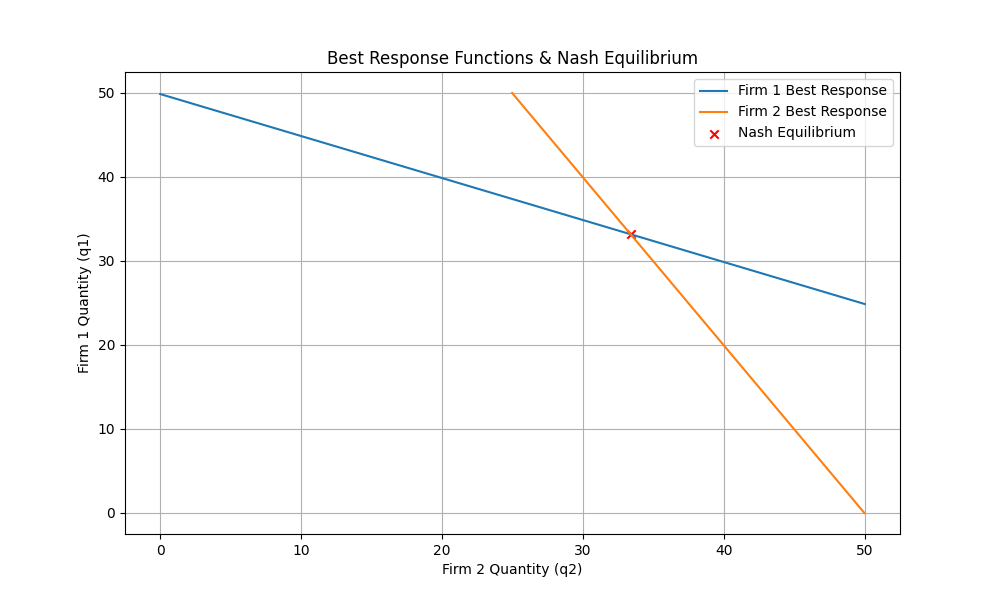
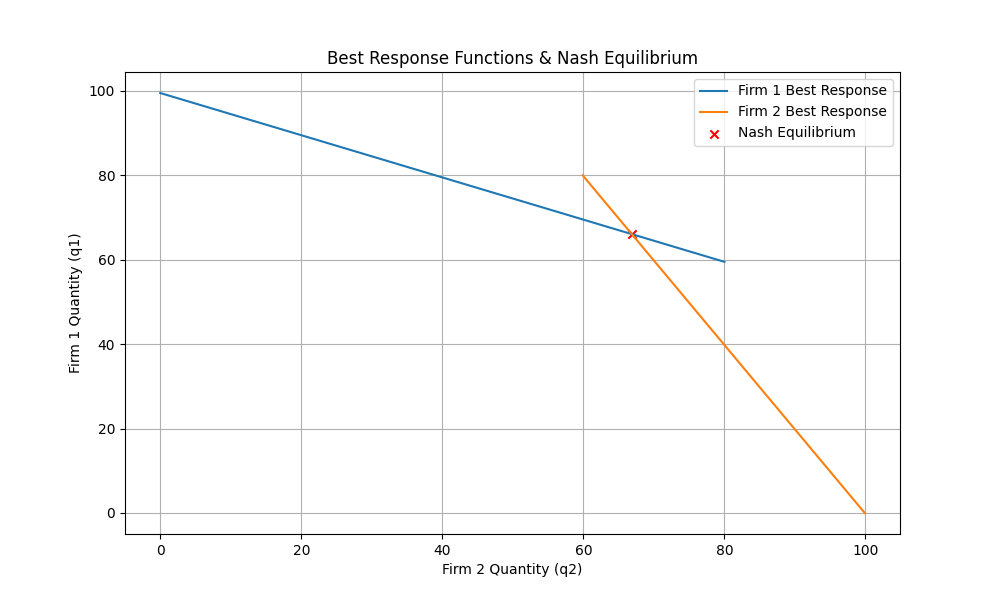
Debug

diff --git a/GameTheoryModel.py b/GameTheoryModel.py
@@ -12,22 +12,23 @@ class GameTheoryModel:
         self.bounds = bounds if bounds else [(0, 50)] * n
 
     def demand_function(self, Q):
+        """Computes price given total quantity Q"""
         return max(self.alpha - self.beta * Q, 0)
 
-
-    def cost_function(self, q, beta):
-        return beta * q
+    def cost_function(self, q, cost_param):
+        """Computes cost for a firm"""
+        return cost_param * q
 
 class CournotGame(GameTheoryModel):
     def __init__(self, **kwargs):
         super().__init__(**kwargs)
 
-    def best_response(self, q_others, beta):
-        """Best reponse for n players"""
-        return max((self.alpha - sum(q_others) - self.beta * beta) / self.n, 0)  # Generalized for n players
+    def best_response(self, q_others, cost_param):
+        """Computes the best response function (n firm)"""
+        return max((self.alpha - self.beta * sum(q_others) - cost_param) / (2 * self.beta), 0)  # Adjusted for n players
 
     def equilibrium(self, tol=1e-4):
-        """Iterative response to for nash equilibrium"""
+        """Iterative best response computation for Cournot equilibrium"""
         quantities = np.array(self.initial_guess)
         error = 1
 
@@ -44,28 +45,3 @@ class CournotGame(GameTheoryModel):
         profits = [p * quantities[i] - self.cost_function(quantities[i], self.cost_params[i]) for i in range(self.n)]
 
         return quantities, p, profits
-
-class StackelbergGame(GameTheoryModel):
-    def __init__(self, **kwargs):
-        super().__init__(**kwargs)
-    
-    def follower_best_response(self, q_leaders, beta_follower):
-        return max((self.alpha - sum(q_leaders) - self.beta * beta_follower) / (self.n - len(q_leaders) + 1), 0)
-    
-    def leader_objective(self, q_leaders):
-        q_followers = [self.follower_best_response(q_leaders, beta) for beta in self.cost_params[len(q_leaders):]]
-        Q = sum(q_leaders) + sum(q_followers)
-        p = self.demand_function(Q)
-        profit_leaders = [float(p * q_leaders[i] - self.cost_function(q_leaders[i], self.cost_params[i])) for i in range(len(q_leaders))]
-        return -sum(profit_leaders)
-    
-    def equilibrium(self):
-        result = minimize(self.leader_objective, self.initial_guess[:1], bounds=self.bounds[:1])
-        q_leaders = result.x
-        q_followers = [self.follower_best_response(q_leaders, beta) for beta in self.cost_params[len(q_leaders):]]
-        quantities = np.concatenate((q_leaders, q_followers))
-        Q = np.sum(quantities)
-        p = self.demand_function(Q)
-        profits = [float(p * quantities[i] - self.cost_function(quantities[i], self.cost_params[i])) for i in range(self.n)]
-        
-        return quantities, float(p), profits

diff --git a/Cournot_BaseModel.py b/Cournot_BaseModel.py
@@ -19,8 +19,8 @@ players = 2
 
 cournot = CournotGame(alpha=alpha, beta=beta, cost_params=[beta1, beta2], n=players)
 
-q1 = np.linspace(0, 50, 100)
-q2 = np.linspace(0, 50, 100)
+q1 = np.linspace(0, 80, 200)
+q2 = np.linspace(0, 80, 200)
 br1 = [cournot.best_response([q], beta1) for q in q2]
 br2 = [cournot.best_response([q], beta2) for q in q1]
 
@@ -41,7 +41,6 @@ p = cournot.demand_function(Q)
 profits = [p * guess[i] - cournot.cost_function(guess[i], cournot.cost_params[i]) for i in range(players)]
 
 # Plot results
-plt.figure(figsize=(10, 6))
 plt.plot(q2, br1, label="Firm 1 Best Response")
 plt.plot(br2, q1, label="Firm 2 Best Response")
 plt.scatter(guess[1], guess[0], color='red', label="Nash Equilibrium", marker='x')

diff --git a/Cournot_costeff.py b/Cournot_costeff.py
@@ -64,7 +64,6 @@ plt.grid()
 plt.show()
 
 # Plot Market Price vs Cost
-plt.figure(figsize=(8, 6))
 plt.plot(cost1, prices, label="Market Price", color="red", linestyle="dashed")
 plt.xlabel("Firm 1 Cost")
 plt.ylabel("Market Price")
@@ -74,7 +73,6 @@ plt.grid()
 plt.show()
 
 # Plot Firm 1 & Firm 2 Profits vs Cost
-plt.figure(figsize=(8, 6))
 plt.plot(cost1, profits1, label="Firm 1 Profit", color="blue", marker='x')
 plt.plot(cost1, profits2, label="Firm 2 Profit", color="orange", marker='x')
 plt.xlabel("Firm 1 Cost")

diff --git a/Cournot_Cartel.py b/Cournot_Cartel.py
@@ -50,8 +50,7 @@ for i in n:
     P_ch.append(profit_cheater)
 
 # Plot results
-plt.figure(figsize=(10, 5))
-plt.plot(n, P_cpf, label='Cartel Profit (Per Firm)', marker='x')
+plt.plot(n, P_cpf, label='Cartel Firms Profit', marker='x')
 plt.plot(n, P_nc, label='Non-Cartel Firm Profit', marker='x')
 plt.plot(n, P_ch, label='Cheater Profit', linestyle='dashed', marker='x')
 plt.xlabel('Total Number of Firms')
